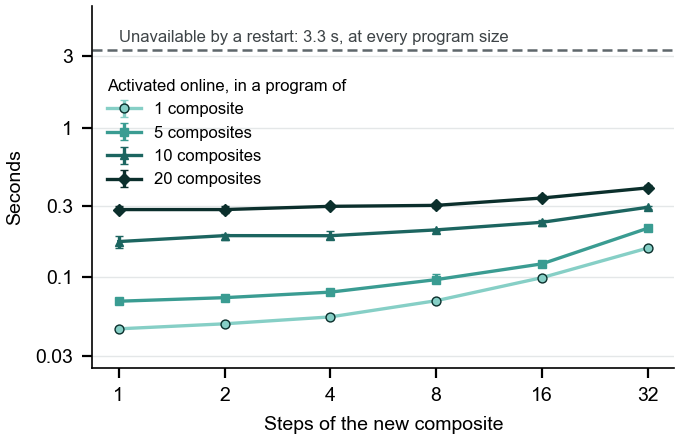
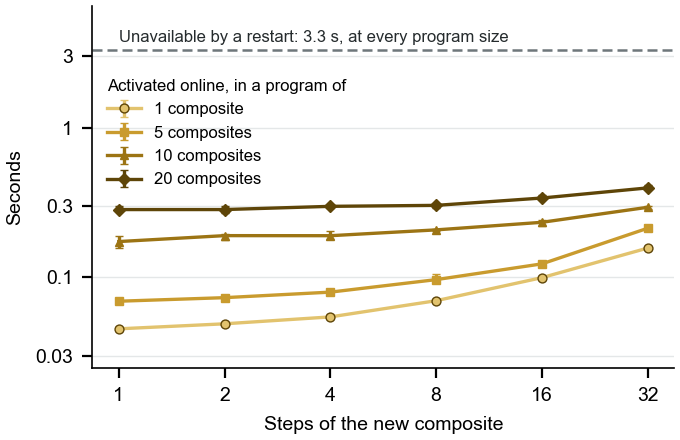
Fig. 3 in the paper's gold ramp, ink and grey like the other figures

diff --git a/cell/eval/q1_analysis.py b/cell/eval/q1_analysis.py
@@ -364,8 +364,10 @@ def figure(by_cell, cells, restart, folder: Path) -> None:
     plt.rcParams.update({"font.family": "Arial", "font.size": 7, "axes.linewidth": 0.6})
     fig, ax = plt.subplots(figsize=(3.4, 2.2))
     # The program's size is a magnitude: one hue, light to dark, and a marker of its own for each size
-    # (the light step is pale on white, so the shape carries it too).
-    shades = {1: "#86CFC6", 5: "#3A9C92", 10: "#1C6560", 20: "#0B2F2C"}
+    # (the light step is pale on white, so the shape carries it too). The hue is the paper's gold, the
+    # colour of a change over the management protocol in its other figures; ink and grey as there.
+    shades = {1: "#E2C36E", 5: "#C99B2E", 10: "#9C7414", 20: "#5E4508"}
+    INK, GREY = "#252B2D", "#6E777B"
     markers = {1: "o", 5: "s", 10: "^", 20: "D"}
     for m in (1, 5, 10, 20):
         xs, ys, lo, hi = [], [], [], []
@@ -381,9 +383,9 @@ def figure(by_cell, cells, restart, folder: Path) -> None:
     flows = [v[0] for (change, _), v in restart.items() if change == "flow"]
     if flows:
         level = float(np.median(flows))
-        ax.axhline(level, color="#5E676B", lw=0.9, ls=(0, (4, 2)))
+        ax.axhline(level, color=GREY, lw=0.9, ls=(0, (4, 2)))
         ax.text(1.0, level * 1.13, f"Unavailable by a restart: {level:.1f} s, at every program size", fontsize=6,
-                color="#3E4447")
+                color=INK)
     ax.set_xscale("log", base=2)
     ax.set_yscale("log")
     ax.set_xticks([1, 2, 4, 8, 16, 32], ["1", "2", "4", "8", "16", "32"])

diff --git a/docs/design-log.md b/docs/design-log.md
@@ -20,6 +20,10 @@ A running log of design considerations made while building, for writing the pape
 
 ## 7 Nov 2026
 
+- **Fig. 3 (activation) in the paper's gold, not teal.** *CIRP*. Gold is the colour of a change over
+  the management protocol in Fig. 1, and an online activation is one; the program size stays a
+  light-to-dark ramp with a marker per size, the restart line in the figures' grey.
+
 - **In the papers, the reconciler is called the synchroniser, and the CIRP text is written in plainer
   sentences.** *CIRP*, *Journal*.
   - "Reconciler" is a term from Kubernetes-style controllers and reads as jargon to a manufacturing
